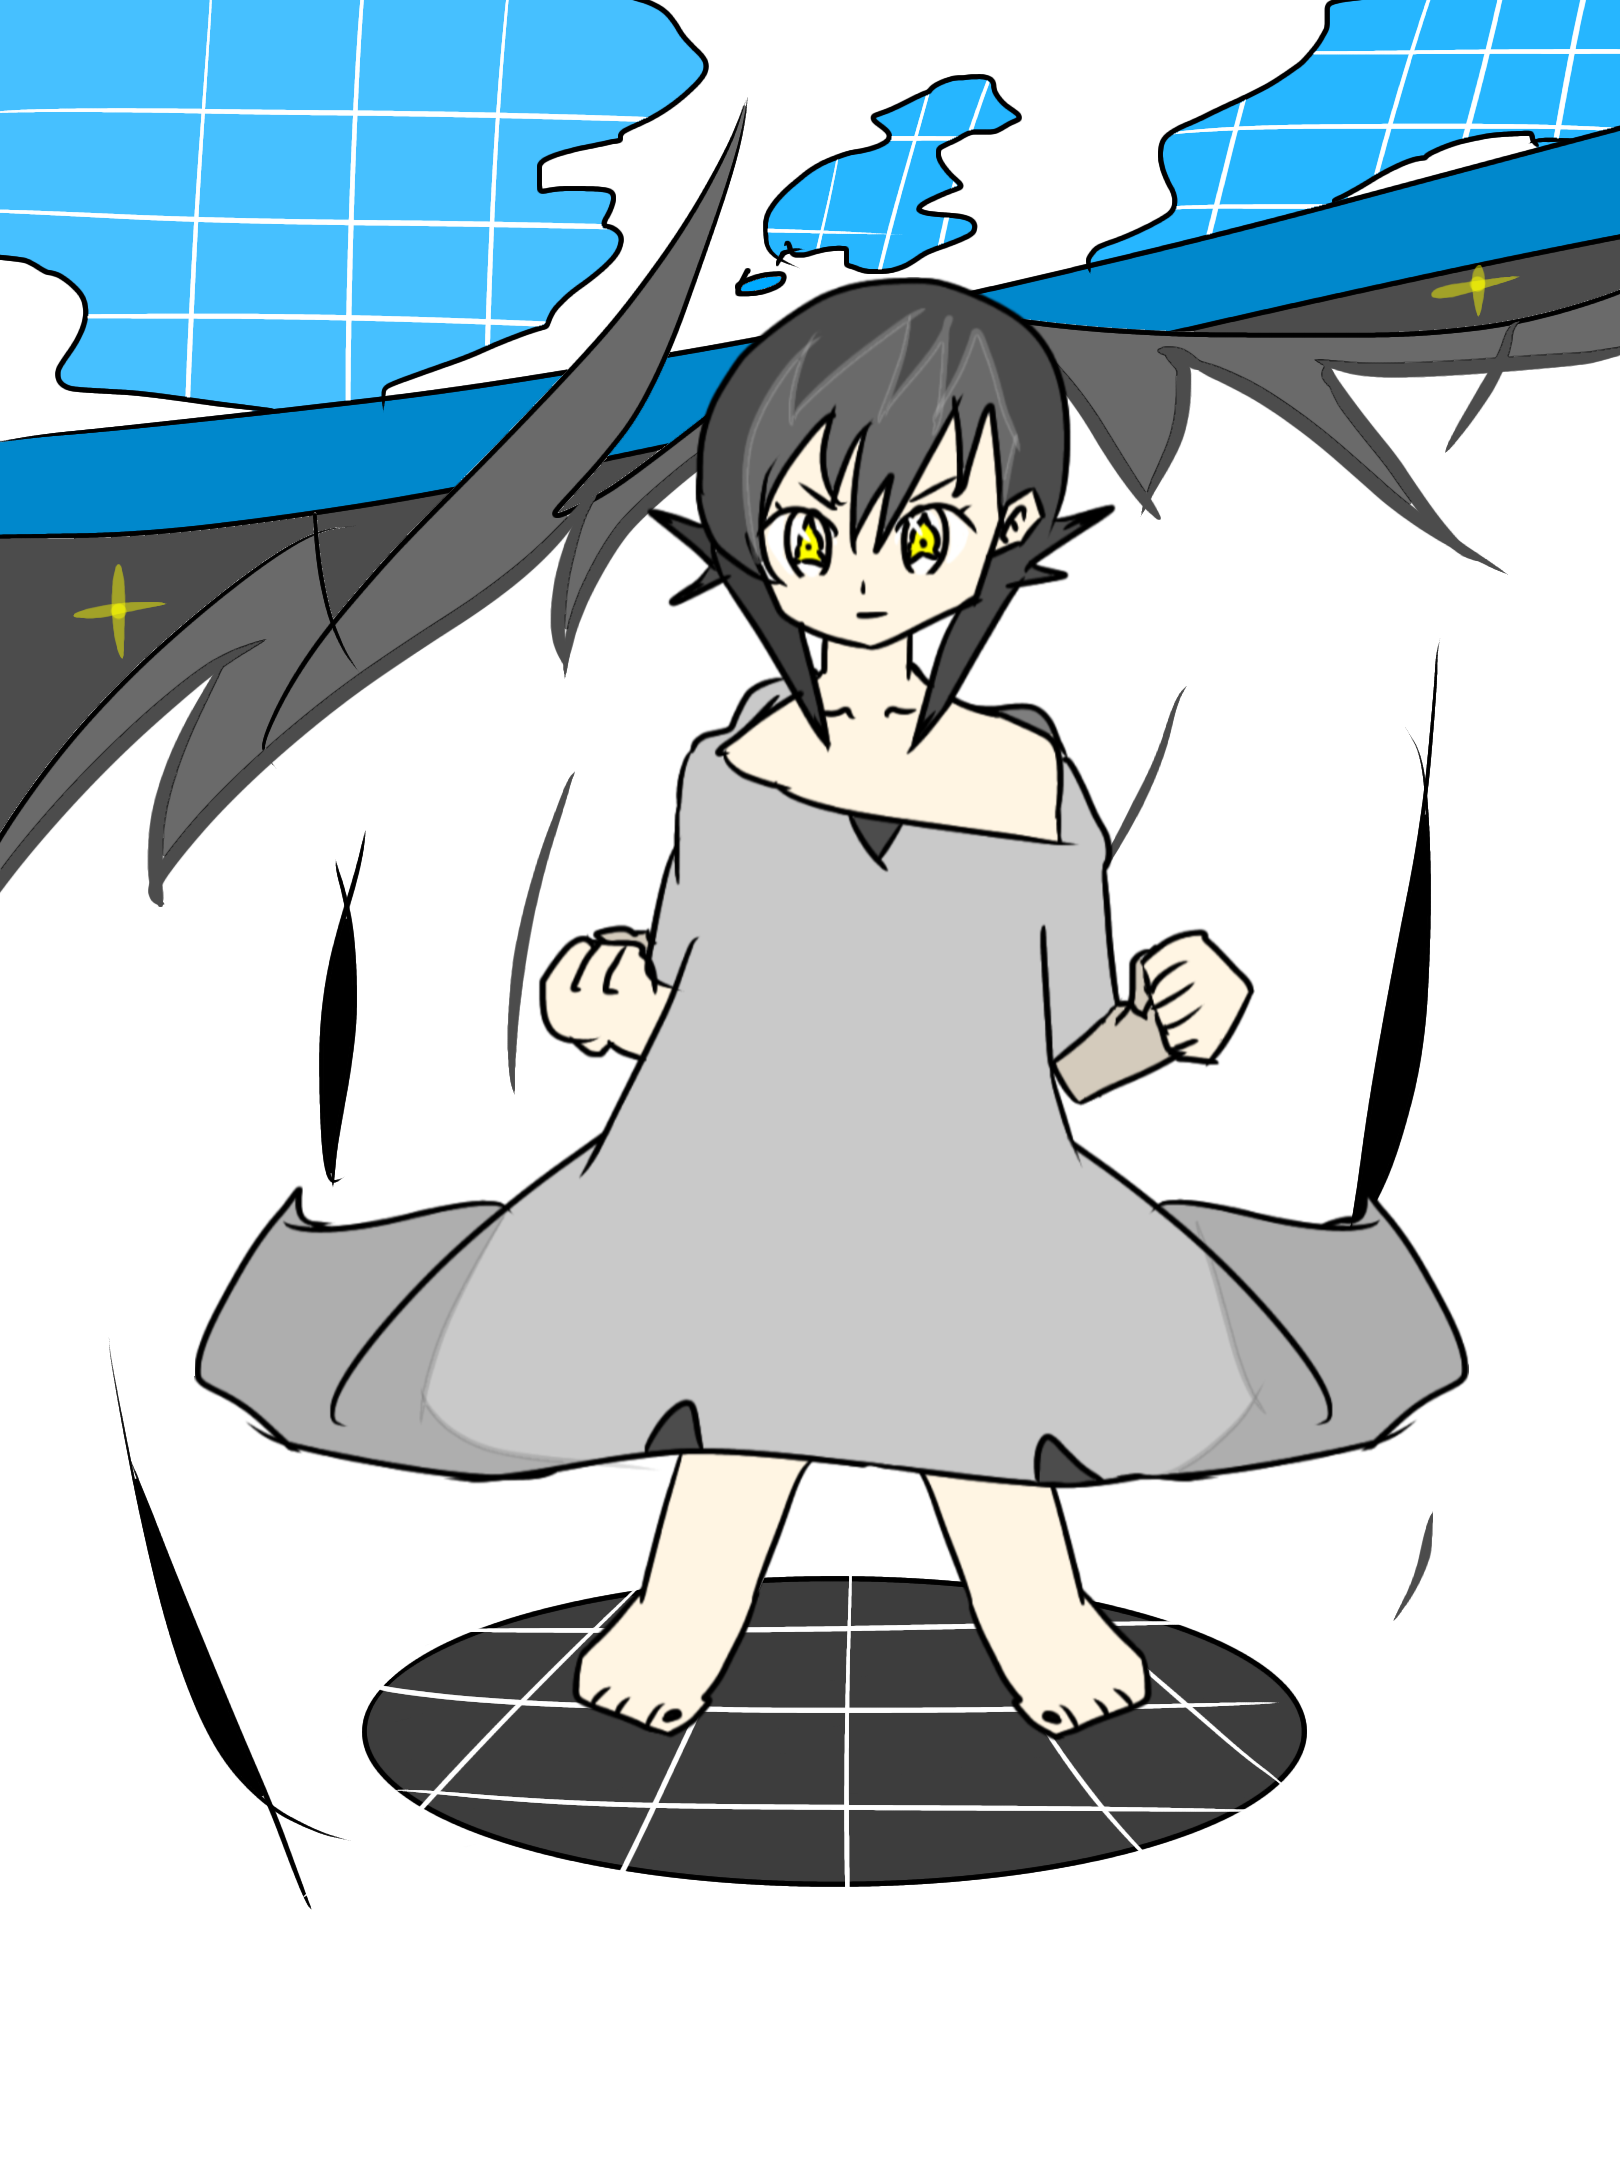
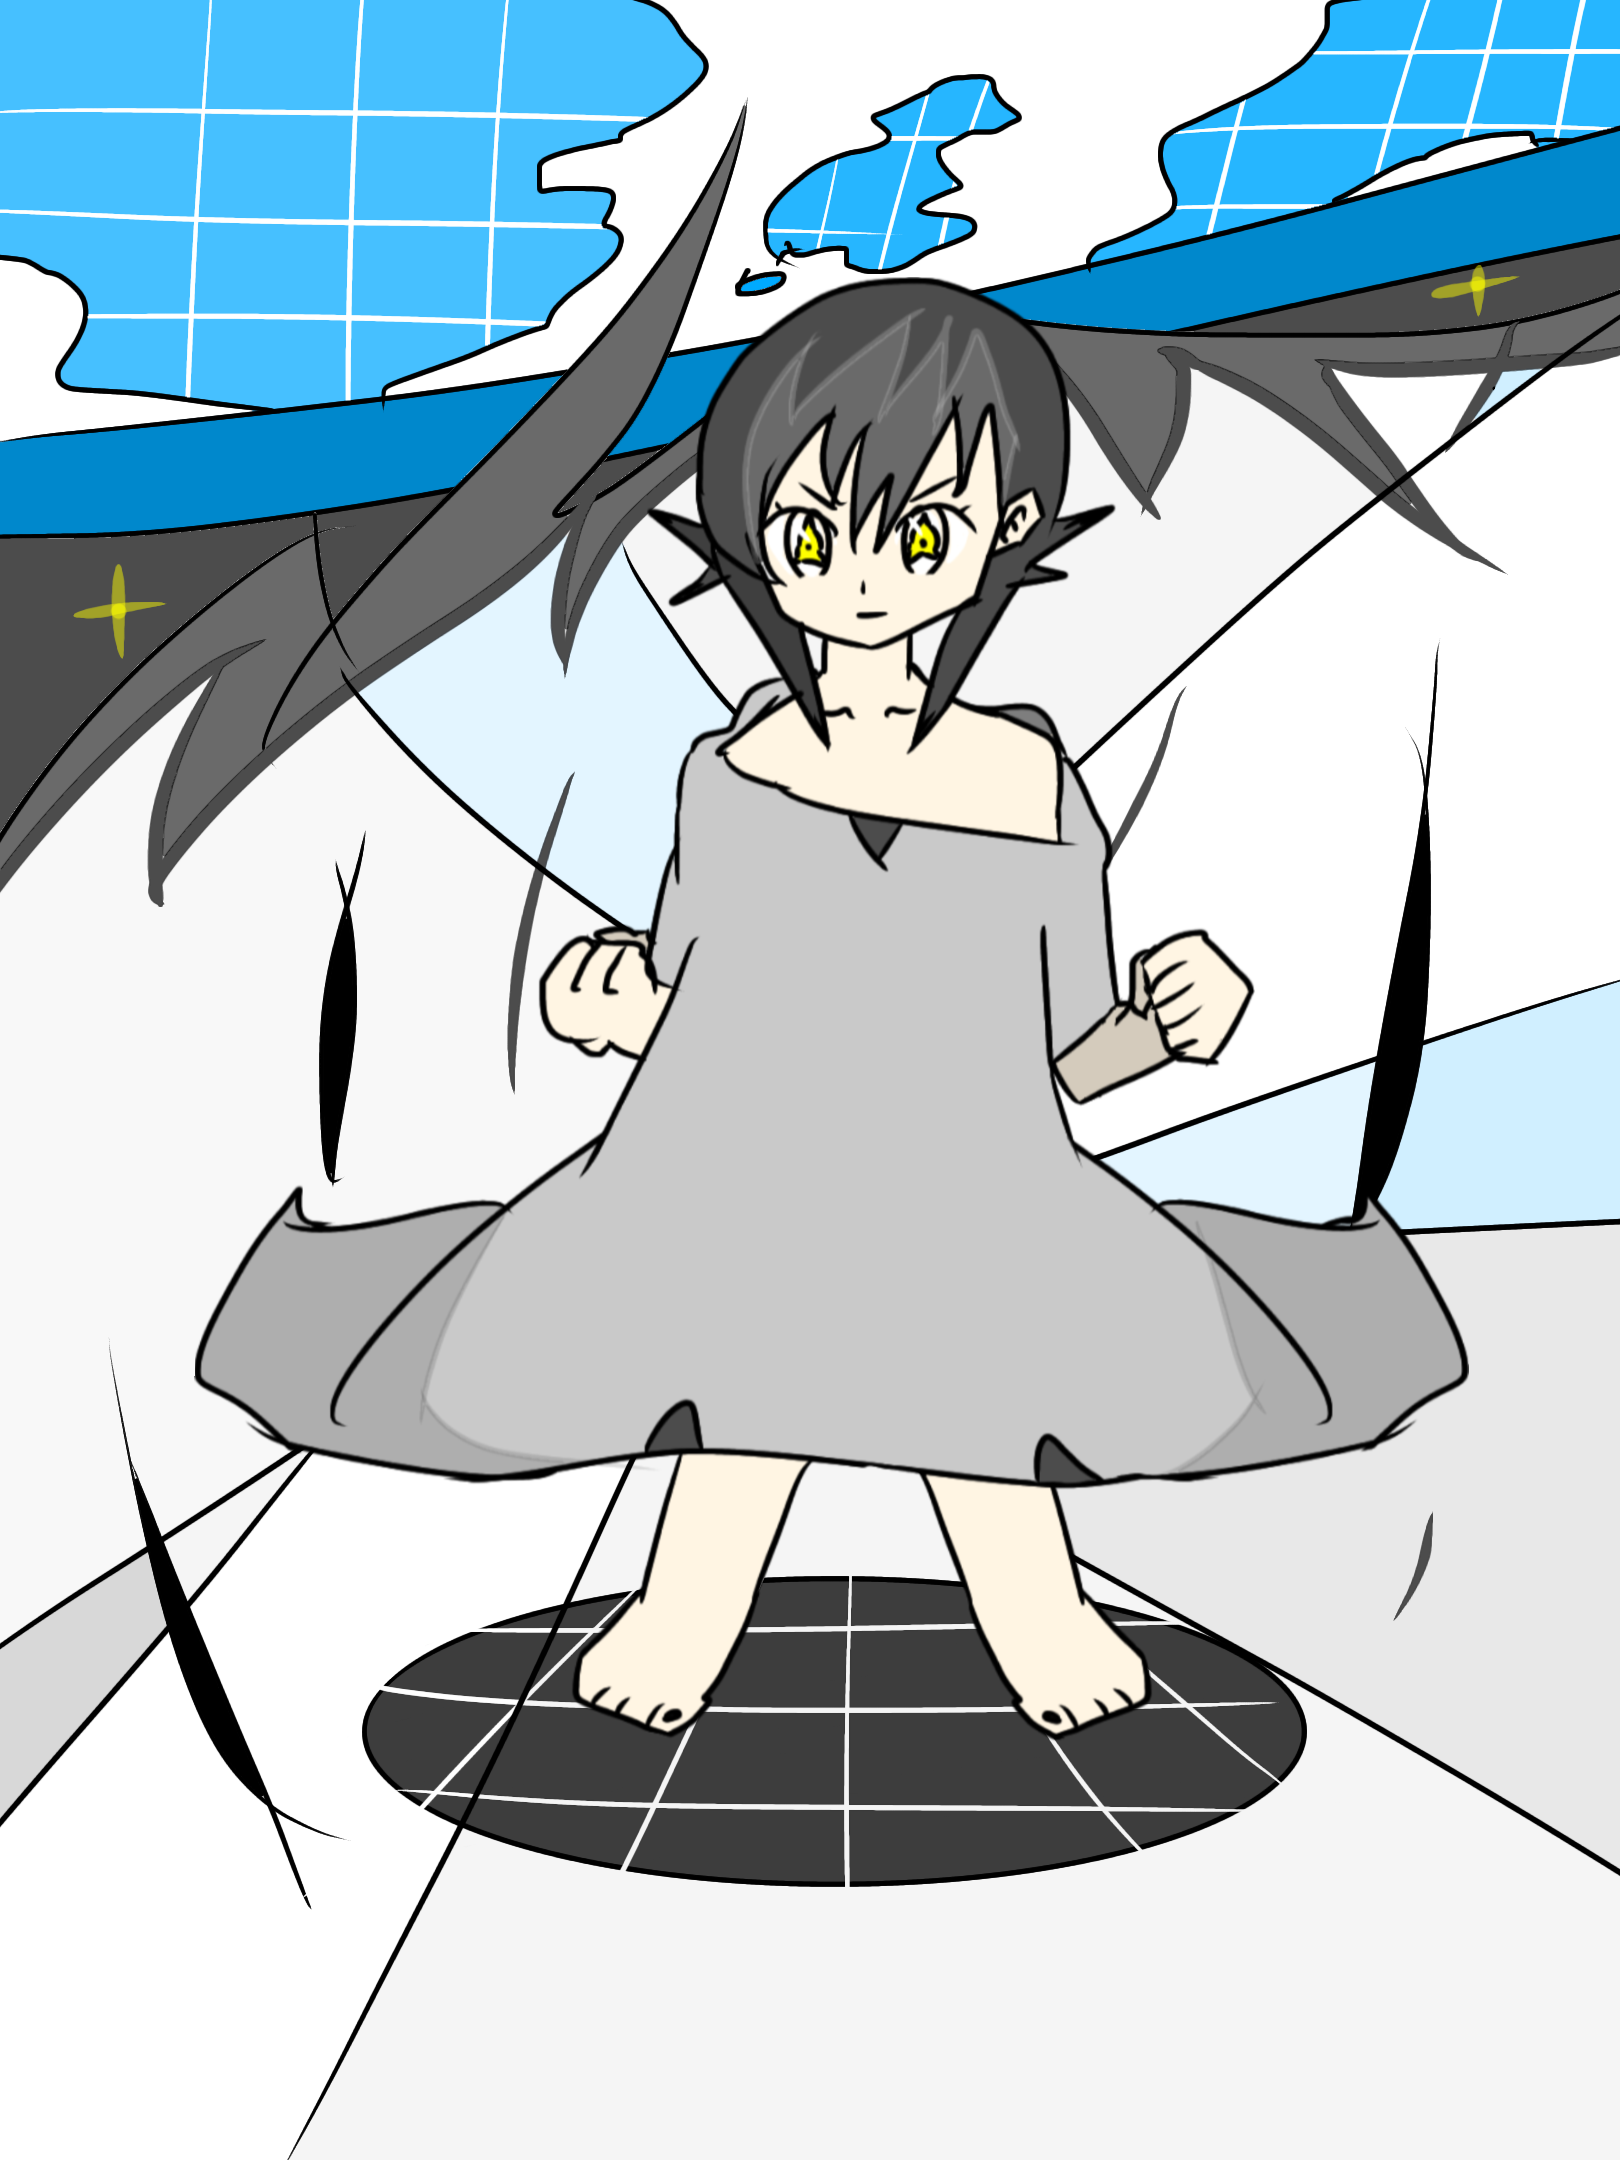
fix

diff --git a/content/blog/2020-07-21-illust.md b/content/blog/2020-07-21-illust.md
@@ -1,0 +1,20 @@
++++
+date = "2020-07-21JST"
+tags = ["illust"]
+title = "イラストを修正してみた"
+slug = "illust"
++++
+
+過去のイラストを整理したついでに、納得いかないイラストを書き直したりしてた。
+
+![](/img/yui_07.png)
+![](/img/yui_08.png)
+![](/img/yui_14.png)
+![](/img/yui_17.png)
+![](/img/yui_18.png)
+![](/img/yui_24.png)
+![](/img/yui_25.png)
+![](/img/yui_27.png)
+
+[/imgall](/imgall)
+
